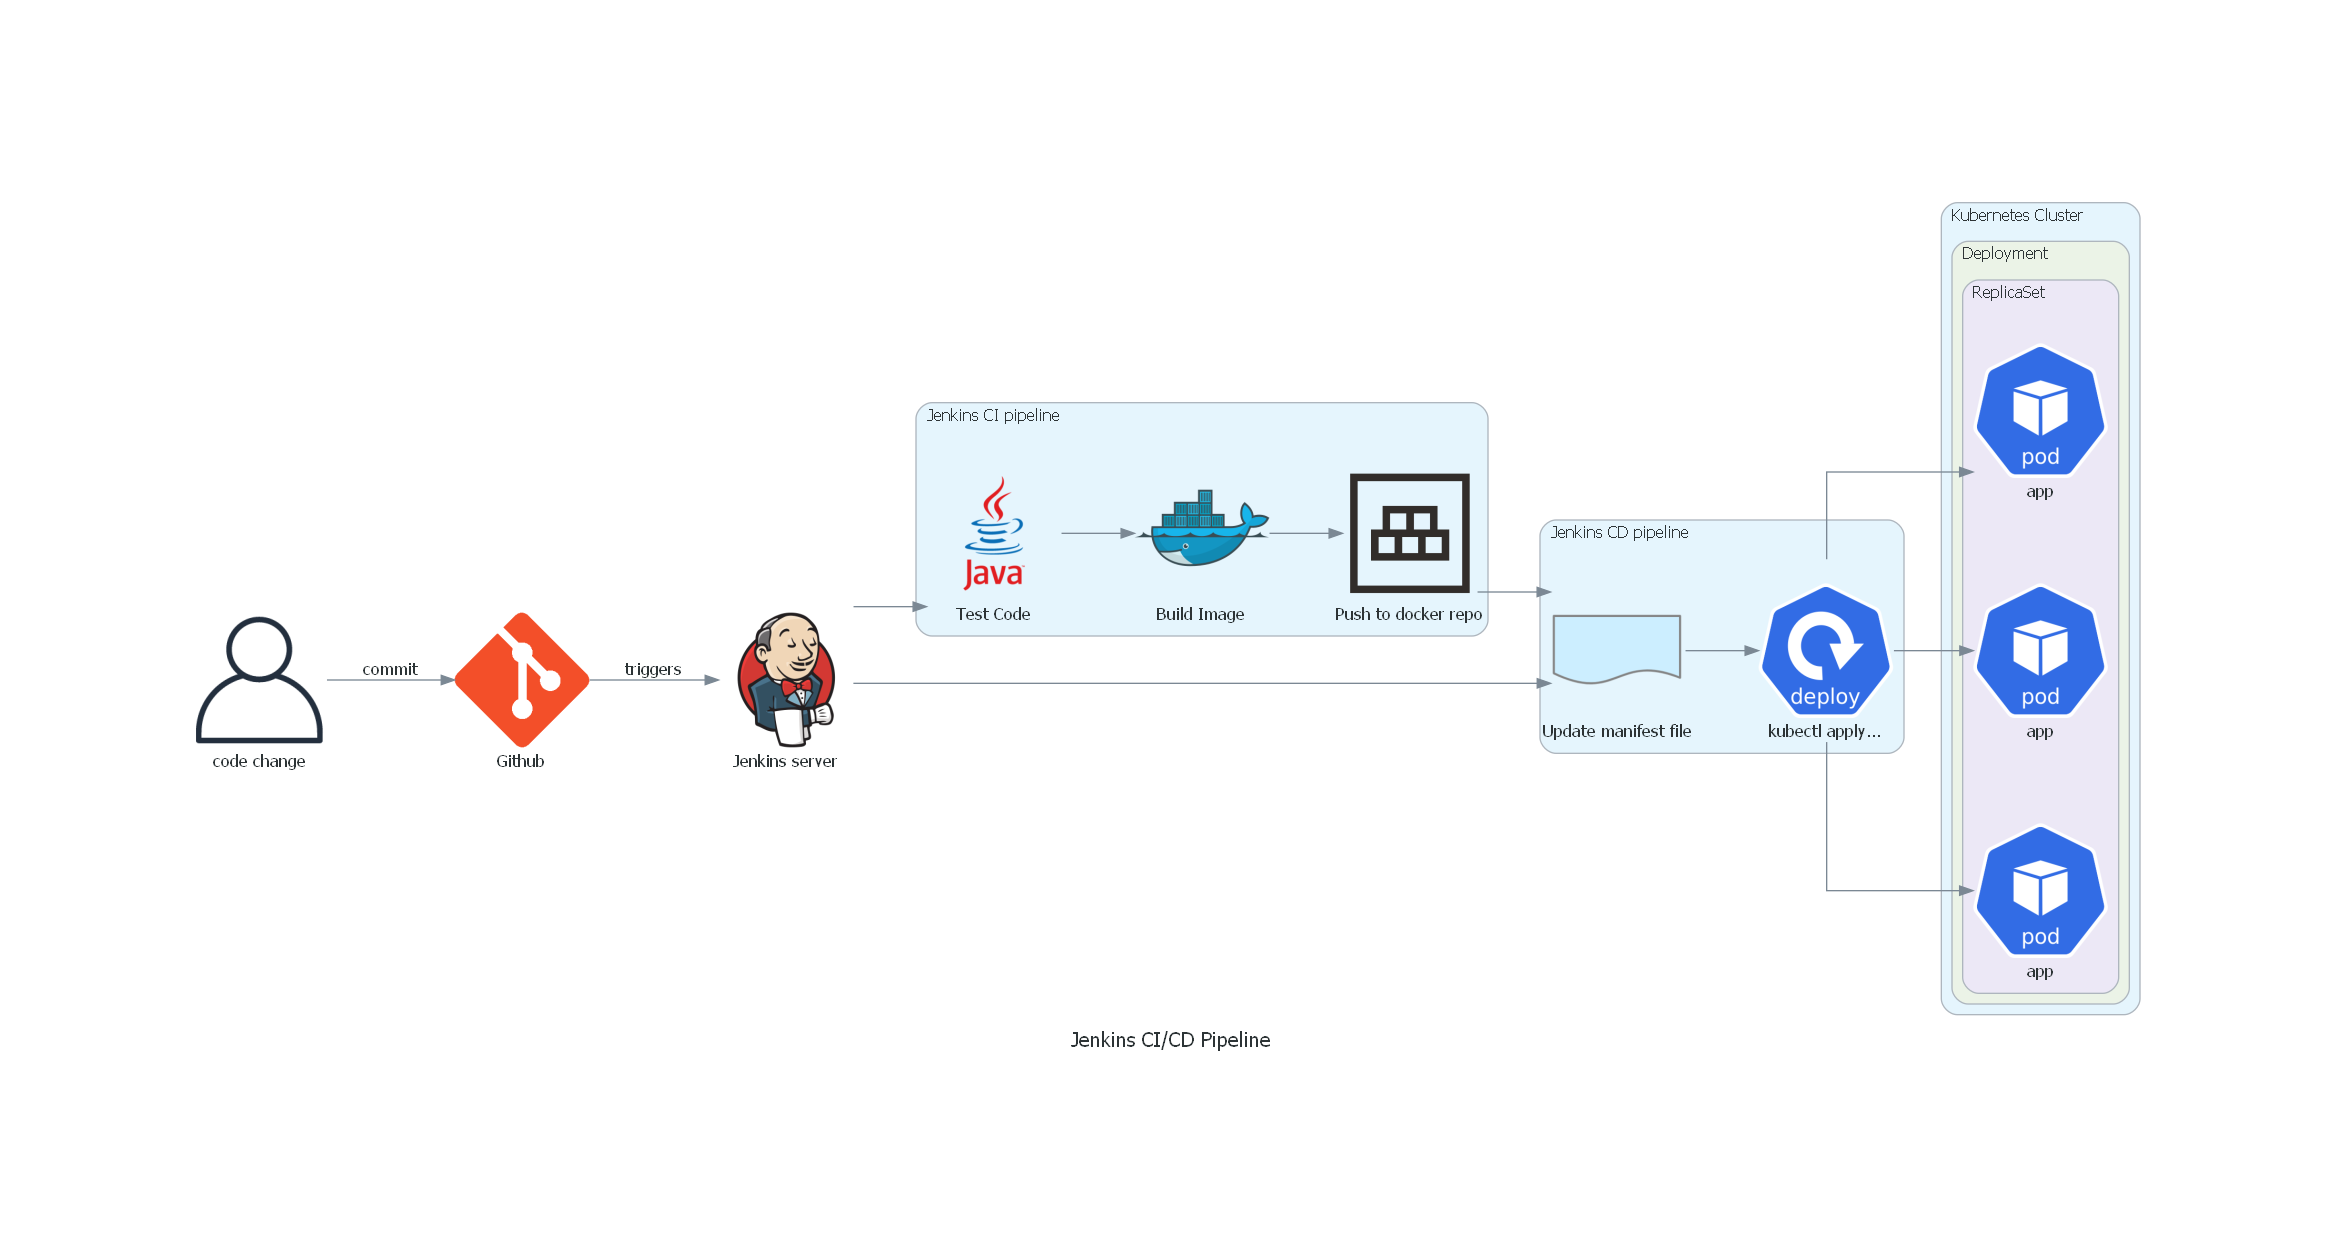
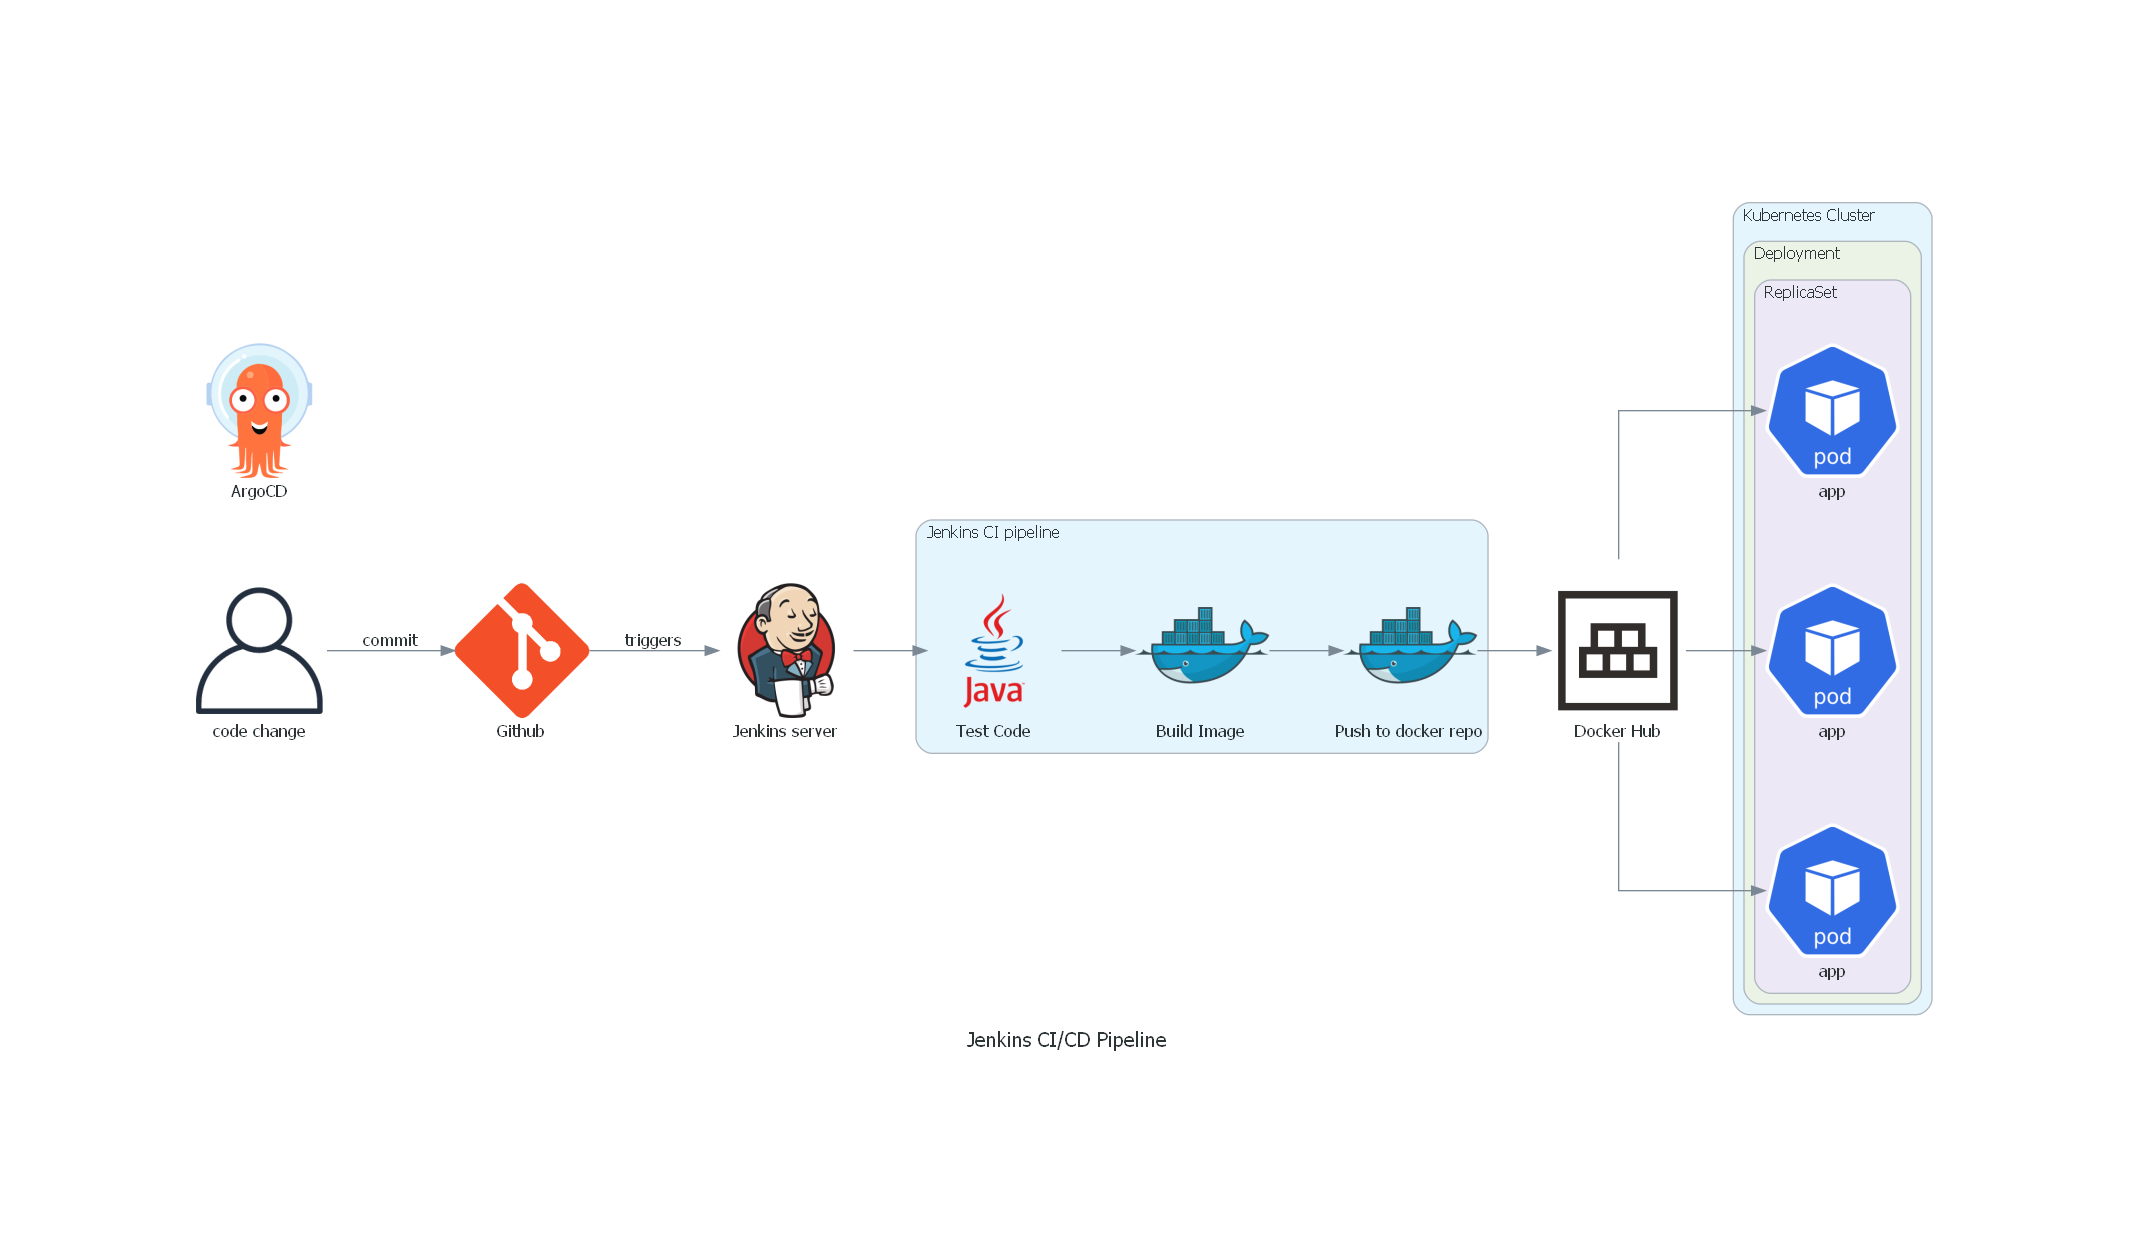
changes

Changed region(s): [[0.0618, 0.1559, 0.9274, 0.8106], [0.0927, 0.2806, 0.1546, 0.4053], [0.4637, 0.8106, 0.5564, 0.8417]]

diff --git a/diagram-jenkins-argocd-cicd.py b/diagram-jenkins-argocd-cicd.py
@@ -1,5 +1,7 @@
 # diagram.py
 from diagrams import Cluster, Diagram, Edge
+from diagrams.custom import Custom
+from urllib.request import urlretrieve
 from diagrams.k8s.compute import Deployment, ReplicaSet, Pod
 from diagrams.k8s.network import Service, Ingress
 from diagrams.k8s.podconfig import Secret
@@ -23,8 +25,11 @@ from diagrams.onprem.network import Apache, HAProxy, Internet, Nginx, Traefik, P
 from diagrams.onprem.storage import CEPH, Glusterfs
 from diagrams.oci.compute import OCIRegistry
 
-with Diagram("Jenkins CI/CD Pipeline", filename="jenkins_cicd_pipeline", show=False):
-    user = User("code change")
+with Diagram("Jenkins CI/CD Pipeline", filename="jenkins_argocd_cicd_pipeline", show=False):
+    user_url = "https://image.freepik.com/free-vector/woman-officer-working-woman-flat-design-illustrator-icon_35659-24.jpg"
+    user_icon = "bastion_qfjova.png"
+    urlretrieve(user_url, user_icon)
+    user = Custom("code change", user_icon)
     github = Git("Github")
     jenkins = Jenkins("Jenkins server")
     argocd = ArgoCD("ArgoCD")
@@ -44,7 +49,7 @@ with Diagram("Jenkins CI/CD Pipeline", filename="jenkins_cicd_pipeline", show=Fa
     user >> Edge(label="commit") >> github >> Edge(
         label="triggers") >> jenkins
     jenkins_push >> dockerhub
-    jenkins_push >> jenkins_update
     jenkins >> jenkins_test
-    jenkins >> jenkins_update
-    jenkins_deploy >> app_grp
+    dockerhub >> Edge(label="image") >> argocd
+    argocd >> app_grp
+    github >> Edge(label="deployment config") >> argocd
